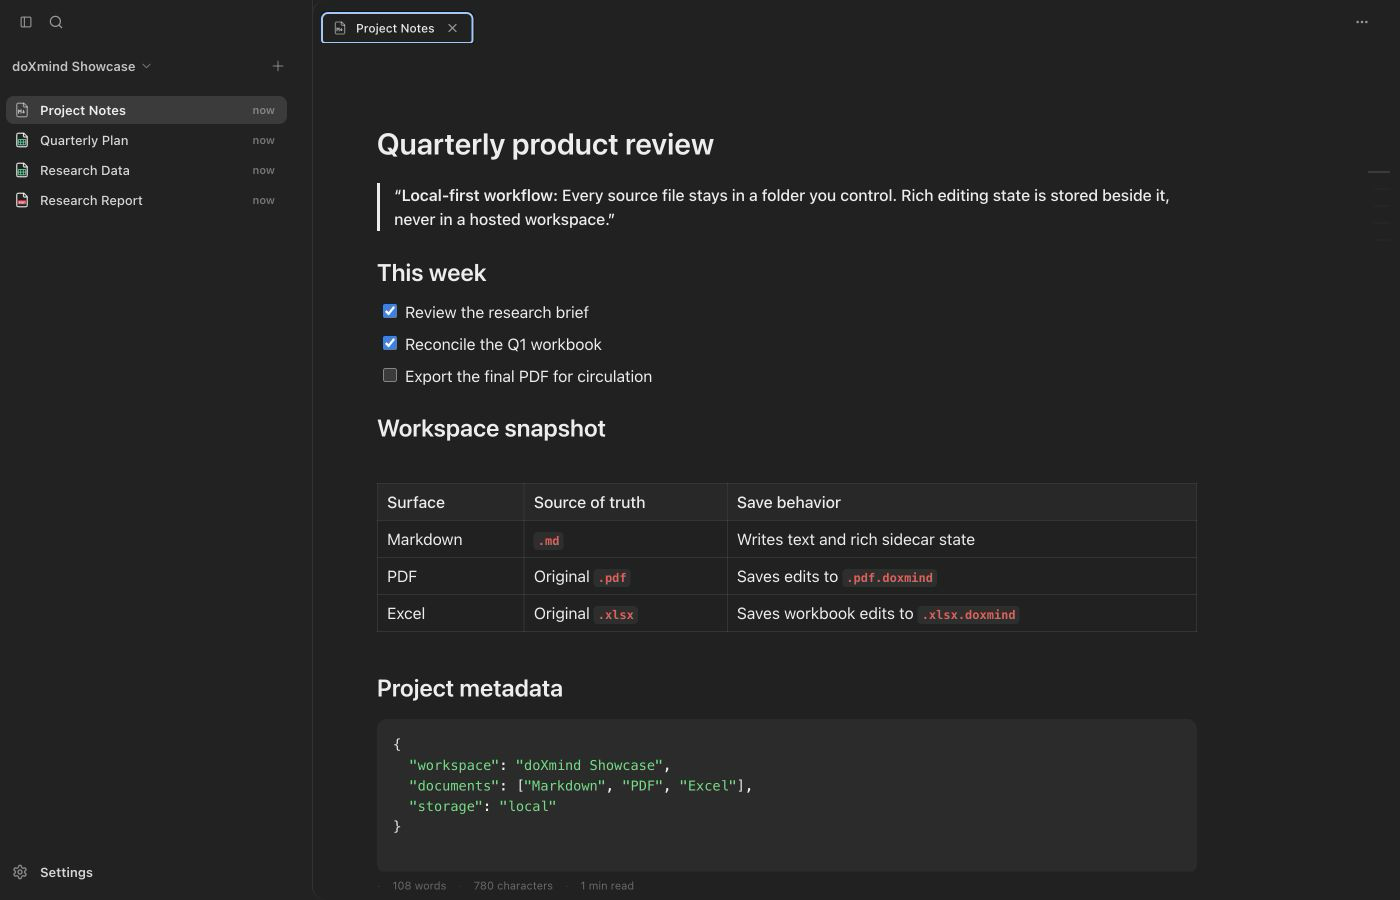
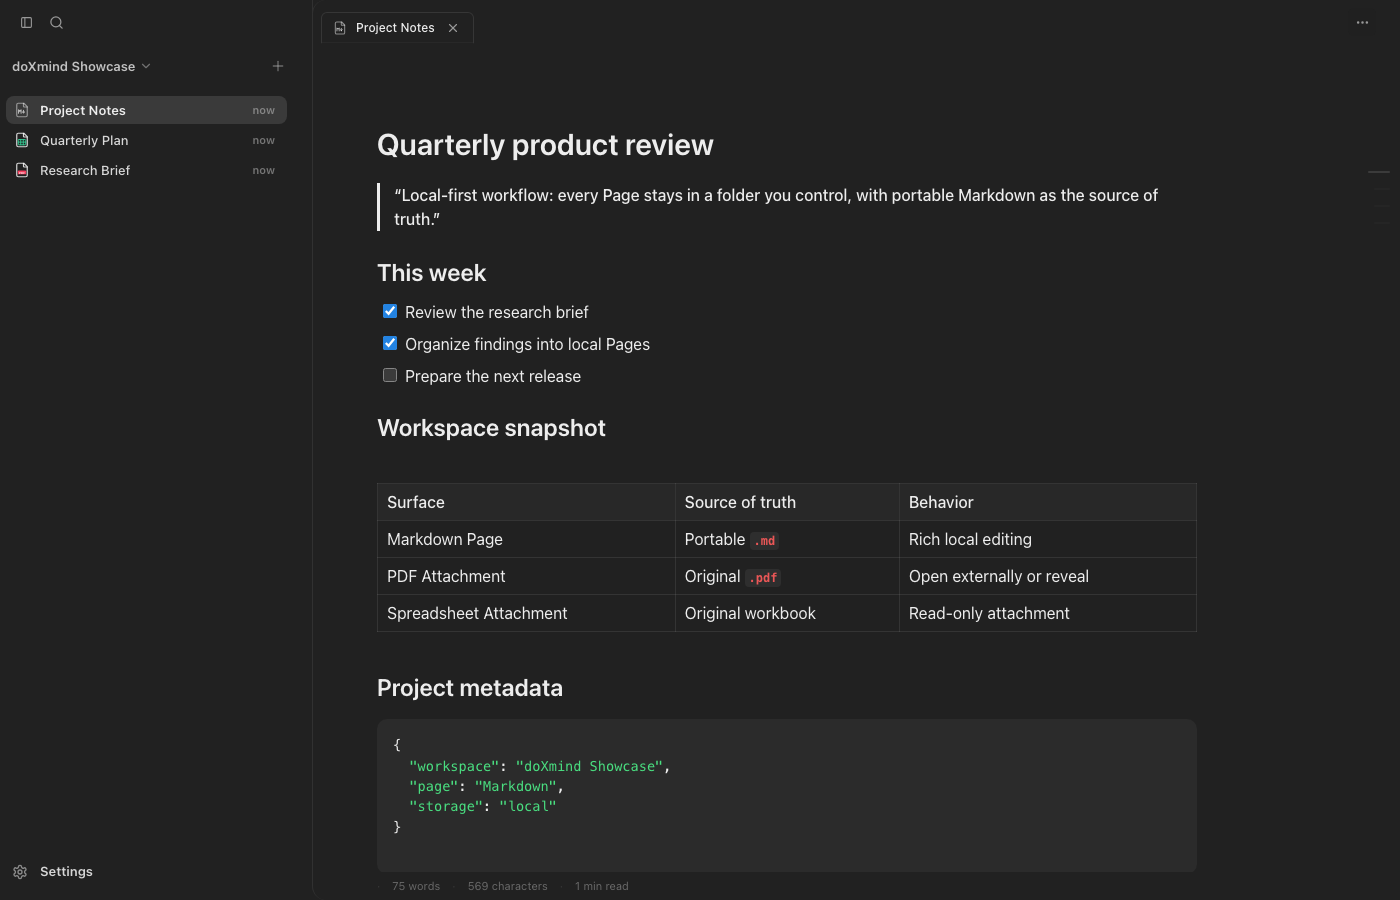
Align the website with the 1.8 Markdown workspace
Present Markdown Pages as the only editing surface, describe other formats as read-only Attachments, and replace retired PDF and spreadsheet imagery with current product screenshots. Keep the stable download URL while adding browser checks for the new boundary, structured data, and scroll-revealed content.

diff --git a/src/pages/Home.jsx b/src/pages/Home.jsx
@@ -8,7 +8,7 @@ const MAC_DOWNLOAD_URL =
 const RELEASES_URL = 'https://github.com/doXmind/releases/releases/latest'
 const GITHUB_URL = 'https://github.com/doXmind'
 const DOCS_URL = 'https://docs.doxmind.com'
-const LATEST_VERSION = '1.7.8'
+const LATEST_VERSION = '1.8.0'
 
 function Brand() {
   return (
@@ -38,19 +38,18 @@ function Reveal({ children, className = '', delay = 0, as = 'div', ...rest }) {
 }
 
 function ProductShot({ src, alt }) {
-  const retina = src.replace(/\.png$/, '@2x.png')
   return (
     <div className="frame">
-      <img src={src} srcSet={`${src} 1x, ${retina} 2x`} width="1400" height="900" alt={alt} loading="lazy" />
+      <img src={src} width="1400" height="900" alt={alt} loading="lazy" />
     </div>
   )
 }
 
 const LOCAL_POINTS = [
   { k: 'No account', v: 'Open and go', d: 'No sign-up, no login, no identity. Launch and start writing.' },
-  { k: 'No cloud sync', v: 'Nothing uploads', d: 'Your files never leave the machine. There is no server to leave to.' },
-  { k: 'No telemetry', v: 'Nothing watches', d: 'No analytics, no tracking, no phone-home. Fully offline.' },
-  { k: 'Source of truth', v: 'Your filesystem', d: 'Portable .md, .xlsx and .pdf on disk — yours to keep and move.' },
+  { k: 'No cloud sync', v: 'Nothing uploads', d: 'Your files never leave the machine. There is no remote sync service.' },
+  { k: 'No telemetry', v: 'Nothing watches', d: 'No analytics and no tracking. Your work stays private and available offline.' },
+  { k: 'Source of truth', v: 'Your filesystem', d: 'Portable Markdown Pages and ordinary attachments on disk — yours to keep and move.' },
 ]
 
 export default function Home() {
@@ -120,7 +119,7 @@ export default function Home() {
               animate={{ opacity: 1, y: 0 }}
               transition={{ duration: 0.7, ease: [0.22, 1, 0.36, 1], delay: 0.2 }}
             >
-              A fully local desktop IDE for Markdown, PDF, and Excel.
+              A fully local, Markdown-native knowledge workspace.
             </motion.p>
             <motion.div
               className="hero-cta"
@@ -148,7 +147,10 @@ export default function Home() {
             animate={{ opacity: 1, y: 0, scale: 1 }}
             transition={{ duration: 0.95, delay: 0.32, ease: [0.22, 1, 0.36, 1] }}
           >
-            <ProductShot src="/doxmind-editor.png" alt="A Markdown document open in the doXmind editor" />
+            <ProductShot
+              src="/doxmind-overview.png"
+              alt="The doXmind workspace showing a Markdown Page with spreadsheet and PDF Attachments"
+            />
           </motion.div>
         </section>
 
@@ -158,11 +160,11 @@ export default function Home() {
             <span className="eyebrow"><span className="dot" /> Local by design</span>
           </Reveal>
           <Reveal delay={0.05} as="h2">
-            One editor for the documents you work in every day.
+            One editing surface: the Markdown Page.
           </Reveal>
           <Reveal delay={0.1} as="p">
-            Markdown, PDF and Excel — each a first-class citizen, each still a portable
-            file in a folder you control.
+            Write Pages in a rich editor. Keep PDF, spreadsheet and HTML files as
+            read-only Attachments in the same folder you already control.
           </Reveal>
         </section>
 
@@ -170,65 +172,70 @@ export default function Home() {
         <section className="features" id="product" aria-label="What doXmind does">
           <div className="feature">
             <div className="feature-copy">
-              <Reveal><span className="eyebrow">01 · Markdown</span></Reveal>
-              <Reveal delay={0.05} as="h3">Markdown without lock-in.</Reveal>
+              <Reveal><span className="eyebrow">01 · Page</span></Reveal>
+              <Reveal delay={0.05} as="h3">Rich writing, portable source.</Reveal>
               <Reveal delay={0.1}>
                 <p>
                   Write in a rich editor while a portable <code style={{ fontFamily: 'var(--font-mono)', fontSize: '0.92em' }}>.md</code> file
-                  stays in your own folder. Math, Mermaid, tables, callouts and code — all in a focused desktop workflow.
+                  stays in your own folder. The Page remains useful in any Markdown tool, even without doXmind.
                 </p>
                 <ul className="feature-points">
                   <li><Check size={16} weight="bold" /> KaTeX math, Mermaid diagrams, tables, callouts, task lists and highlighted code</li>
                   <li><Check size={16} weight="bold" /> Slash commands, drag handles, and a Notion-style bubble menu</li>
-                  <li><Check size={16} weight="bold" /> Untouched blocks round-trip byte-for-byte; a hidden sidecar holds the rest</li>
+                  <li><Check size={16} weight="bold" /> A hidden sidecar improves fidelity without replacing the Markdown source</li>
                 </ul>
               </Reveal>
             </div>
             <Reveal delay={0.08} className="feature-visual">
-              <ProductShot src="/doxmind-editor.png" alt="A Markdown project edited in doXmind" />
+              <ProductShot src="/doxmind-editor.png" alt="A Markdown Page open in the doXmind rich editor" />
             </Reveal>
           </div>
 
           <div className="feature feature-reverse">
             <div className="feature-copy">
-              <Reveal><span className="eyebrow">02 · PDF</span></Reveal>
-              <Reveal delay={0.05} as="h3">PDFs stay original.</Reveal>
+              <Reveal><span className="eyebrow">02 · Your folder</span></Reveal>
+              <Reveal delay={0.05} as="h3">A knowledge base you can leave with.</Reveal>
               <Reveal delay={0.1}>
                 <p>
-                  Read, annotate and organize long documents without replacing the source PDF. doXmind keeps its editing
-                  state beside the file — not on a remote server.
+                  Open a real folder and create Pages directly beside the files you already manage. Ordinary Markdown
+                  links remain visible in the source instead of becoming relationships trapped in a cloud database.
                 </p>
                 <ul className="feature-points">
-                  <li><Check size={16} weight="bold" /> Block-based annotation and edit surface</li>
-                  <li><Check size={16} weight="bold" /> The original PDF is never overwritten</li>
-                  <li><Check size={16} weight="bold" /> Editor state lives in a same-name hidden sidecar</li>
+                  <li><Check size={16} weight="bold" /> Real folders and filenames stay authoritative</li>
+                  <li><Check size={16} weight="bold" /> Pages stay readable in Obsidian, VS Code, Git and other Markdown tools</li>
+                  <li><Check size={16} weight="bold" /> Portable links are the foundation for the knowledge layer ahead</li>
                 </ul>
               </Reveal>
             </div>
             <Reveal delay={0.08} className="feature-visual">
-              <ProductShot src="/doxmind-pdf.png" alt="A PDF open in the doXmind annotation workspace" />
+              <ProductShot
+                src="/doxmind-overview.png"
+                alt="A local folder in doXmind with one Markdown Page and two read-only Attachments"
+              />
             </Reveal>
           </div>
 
           <div className="feature">
             <div className="feature-copy">
-              <Reveal><span className="eyebrow">03 · Excel</span></Reveal>
-              <Reveal delay={0.05} as="h3">Real workbooks, locally.</Reveal>
+              <Reveal><span className="eyebrow">03 · Attachments</span></Reveal>
+              <Reveal delay={0.05} as="h3">Reference files without rewriting them.</Reveal>
               <Reveal delay={0.1}>
                 <p>
-                  Edit <code style={{ fontFamily: 'var(--font-mono)', fontSize: '0.92em' }}>.xlsx</code> and{' '}
-                  <code style={{ fontFamily: 'var(--font-mono)', fontSize: '0.92em' }}>.csv</code> with formulas, filters,
-                  autofill, formatting and structural tools. Your workbook stays the source of truth on disk.
+                  PDF, spreadsheet and HTML files can live in the workspace as read-only Attachments. Open them in the
+                  system app or reveal them in Finder without turning doXmind into a second office suite.
                 </p>
                 <ul className="feature-points">
-                  <li><Check size={16} weight="bold" /> A real formula engine, not a viewer</li>
-                  <li><Check size={16} weight="bold" /> Row and column operations, filters and autofill</li>
-                  <li><Check size={16} weight="bold" /> CSV opens in the same grid and exports back to .xlsx</li>
+                  <li><Check size={16} weight="bold" /> The original Attachment is never silently rewritten</li>
+                  <li><Check size={16} weight="bold" /> Open Externally and Reveal keep file ownership clear</li>
+                  <li><Check size={16} weight="bold" /> Existing PDF and Excel edits retain a documented recovery path</li>
                 </ul>
               </Reveal>
             </div>
             <Reveal delay={0.08} className="feature-visual">
-              <ProductShot src="/doxmind-excel.png" alt="An Excel workbook open in the doXmind spreadsheet editor" />
+              <ProductShot
+                src="/doxmind-editor.png"
+                alt="A doXmind Page documenting how PDF and spreadsheet files remain read-only Attachments"
+              />
             </Reveal>
           </div>
         </section>
@@ -244,7 +251,7 @@ export default function Home() {
             <Reveal delay={0.1}>
               <p className="local-lede">
                 doXmind has no account, no cloud sync, no telemetry, and no AI runtime. It is a desktop app and a localhost
-                helper — the files in your own folders are the whole product.
+                helper — the files in your own folders remain the source of truth.
               </p>
             </Reveal>
             <Reveal delay={0.14}>
@@ -267,7 +274,7 @@ export default function Home() {
             <div className="download-sky" aria-hidden="true" />
             <img className="download-icon" src="/doxmind-app-icon.png" alt="" width="56" height="56" />
             <h2>Keep your documents yours.</h2>
-            <p>Download doXmind for macOS and start editing in seconds — no account, no cloud, no catch.</p>
+            <p>Download doXmind for macOS and start writing local Markdown Pages — no account, no cloud, no catch.</p>
             <div className="download-cta">
               <a className="btn btn-lg btn-ink" href={MAC_DOWNLOAD_URL}>
                 <DownloadSimple size={18} weight="bold" /> Download for macOS
@@ -287,7 +294,7 @@ export default function Home() {
         <div className="footer-top">
           <div className="footer-brand">
             <a href="/" aria-label="doXmind home"><Brand /></a>
-            <p>A fully local desktop IDE for Markdown, PDF and Excel. Your filesystem is the source of truth.</p>
+            <p>A fully local, Markdown-native knowledge workspace. Your filesystem is the source of truth.</p>
           </div>
           <nav className="footer-links" aria-label="Footer">
             <div className="footer-col">

diff --git a/scripts/check-site.js b/scripts/check-site.js
@@ -15,13 +15,31 @@ async function openPage(path, viewport, { collectConsoleErrors = true } = {}) {
   return page
 }
 
+async function revealScrolledContent(page) {
+  await page.evaluate(async () => {
+    const pause = () => new Promise((resolve) => setTimeout(resolve, 90))
+    const originalScrollBehavior = document.documentElement.style.scrollBehavior
+    document.documentElement.style.scrollBehavior = 'auto'
+    const lastScrollTop = Math.max(0, document.documentElement.scrollHeight - window.innerHeight)
+    for (let scrollTop = 0; scrollTop < lastScrollTop; scrollTop += window.innerHeight * 0.7) {
+      window.scrollTo(0, scrollTop)
+      await pause()
+    }
+    window.scrollTo(0, lastScrollTop)
+    await new Promise((resolve) => setTimeout(resolve, 850))
+    window.scrollTo(0, 0)
+    await pause()
+    document.documentElement.style.scrollBehavior = originalScrollBehavior
+  })
+}
+
 try {
   const desktop = await openPage('/', { width: 1440, height: 1000 })
-  assert.match(await desktop.title(), /Local Desktop IDE/)
+  assert.match(await desktop.title(), /Fully Local Markdown Knowledge Workspace/)
   const heroHeading = await desktop.$eval('h1', (node) => node.textContent)
   assert.equal(heroHeading.trim(), 'doXmind')
   assert.equal(
-    await desktop.$eval('.hero-app-icon', (node) => node.getAttribute('src')),
+    await desktop.$eval('.hero-icon', (node) => node.getAttribute('src')),
     '/doxmind-app-icon.png',
   )
   assert.equal(
@@ -29,30 +47,80 @@ try {
     'https://github.com/doXmind/releases/releases/latest/download/doXmind-mac-arm64.dmg',
   )
   assert.equal(
-    await desktop.$eval('.header-download', (node) => node.href),
+    await desktop.$eval('.site-header [data-testid="mac-download"]', (node) => node.href),
     'https://github.com/doXmind/releases/releases/latest/download/doXmind-mac-arm64.dmg',
   )
   assert.deepEqual(
-    await desktop.$$eval('.story-row .product-shot img', (nodes) => nodes.map((node) => node.getAttribute('src'))),
-    ['/doxmind-editor.png', '/doxmind-pdf.png', '/doxmind-excel.png'],
+    await desktop.$$eval('.frame img', (nodes) => nodes.map((node) => node.getAttribute('src'))),
+    [
+      '/doxmind-overview.png',
+      '/doxmind-editor.png',
+      '/doxmind-overview.png',
+      '/doxmind-editor.png',
+    ],
   )
-  assert.match(
-    await desktop.$eval('.hero-product-shot img', (node) => node.getAttribute('srcset')),
-    /doxmind-editor@2x\.png 2x/,
+  assert.deepEqual(
+    await desktop.$$eval('.frame img', (nodes) => nodes.map((node) => node.getAttribute('alt'))),
+    [
+      'The doXmind workspace showing a Markdown Page with spreadsheet and PDF Attachments',
+      'A Markdown Page open in the doXmind rich editor',
+      'A local folder in doXmind with one Markdown Page and two read-only Attachments',
+      'A doXmind Page documenting how PDF and spreadsheet files remain read-only Attachments',
+    ],
   )
-  assert.equal((await desktop.$$('.desktop-preview')).length, 0)
+  assert.equal(
+    await desktop.$$eval('.frame img', (nodes) => nodes.every((node) => node.complete && node.naturalWidth > 0)),
+    true,
+  )
 
   const bodyText = await desktop.$eval('body', (node) => node.innerText)
+  for (const requiredSurface of [
+    'A fully local, Markdown-native knowledge workspace.',
+    'One editing surface: the Markdown Page.',
+    'read-only Attachments',
+    'v1.8.0',
+  ]) {
+    assert.equal(bodyText.includes(requiredSurface), true, `${requiredSurface} should appear`)
+  }
   for (const removedSurface of ['Log in', 'Sign up', 'Launch App', 'Try for free', 'Pricing']) {
     assert.equal(bodyText.includes(removedSurface), false, `${removedSurface} should not appear`)
   }
+  for (const retiredClaim of [
+    'desktop IDE for Markdown, PDF, and Excel',
+    'Read, annotate and organize long documents',
+    'Block-based annotation and edit surface',
+    'A real formula engine, not a viewer',
+    'spreadsheet editor',
+  ]) {
+    assert.equal(bodyText.includes(retiredClaim), false, `${retiredClaim} should not appear`)
+  }
+
+  const softwareSchema = await desktop.$$eval('script[type="application/ld+json"]', (nodes) =>
+    nodes.map((node) => JSON.parse(node.textContent)).find((schema) => schema['@type'] === 'SoftwareApplication'),
+  )
+  assert.ok(softwareSchema)
+  assert.ok(softwareSchema.featureList.includes('Read-only PDF, spreadsheet, and HTML Attachments'))
+  assert.equal(softwareSchema.featureList.includes('PDF annotation and document tools'), false)
+  assert.equal(softwareSchema.featureList.includes('Excel workbook editing'), false)
+
+  await revealScrolledContent(desktop)
+  const hiddenRevealSections = await desktop.$$eval('.reveal', (nodes) =>
+    nodes
+      .map((node) => ({
+        opacity: getComputedStyle(node).opacity,
+        text: node.textContent.trim().replace(/\s+/g, ' ').slice(0, 80),
+      }))
+      .filter(({ opacity }) => !(Number.parseFloat(opacity) > 0.99)),
+  )
+  assert.deepEqual(hiddenRevealSections, [], 'all reveal sections should become visible while scrolling')
   await desktop.screenshot({ path: '/tmp/doxmind-website-desktop.png', fullPage: true })
   await desktop.close()
 
   const mobile = await openPage('/', { width: 390, height: 844, deviceScaleFactor: 1 })
   const overflow = await mobile.evaluate(() => document.documentElement.scrollWidth - document.documentElement.clientWidth)
   assert.ok(overflow <= 1, `mobile page overflows horizontally by ${overflow}px`)
-  assert.equal(await mobile.$eval('.desktop-nav', (node) => getComputedStyle(node).display), 'none')
+  assert.equal(await mobile.$eval('.header-ghost', (node) => getComputedStyle(node).display), 'none')
+  await revealScrolledContent(mobile)
   await mobile.screenshot({ path: '/tmp/doxmind-website-mobile.png', fullPage: true })
   await mobile.close()
 
@@ -80,7 +148,7 @@ try {
   assert.equal((await legacy.$$('input')).length, 0)
   await legacy.close()
 
-  console.log('Site checks passed: product imagery, desktop, mobile, /download, and retired /login surface')
+  console.log('Site checks passed: 1.8 product boundary, imagery, desktop, mobile, /download, and retired /login surface')
 } finally {
   await browser.close()
 }

diff --git a/src/components/seo/SEO.jsx b/src/components/seo/SEO.jsx
@@ -5,9 +5,9 @@ const DOWNLOAD_URL = `${SITE_URL}/download`
 const IMAGE_URL = `${SITE_URL}/og-image.png`
 const APP_ICON_URL = `${SITE_URL}/doxmind-app-icon.png`
 
-const title = 'doXmind — Local Desktop IDE for Markdown, PDF & Excel'
+const title = 'doXmind — Fully Local Markdown Knowledge Workspace'
 const description =
-  'A fully local desktop IDE for Markdown, PDF, and Excel. No account, cloud sync, telemetry, or AI runtime.'
+  'A fully local, Markdown-native knowledge workspace with portable Pages and read-only Attachments. No account, cloud sync, telemetry, or AI runtime.'
 
 const structuredData = [
   {
@@ -27,9 +27,10 @@ const structuredData = [
     description,
     downloadUrl: DOWNLOAD_URL,
     featureList: [
-      'Rich Markdown editing with portable files',
-      'PDF annotation and document tools',
-      'Excel workbook editing',
+      'Rich Markdown Pages backed by portable files',
+      'Real local folders and filesystem ownership',
+      'Read-only PDF, spreadsheet, and HTML Attachments',
+      'Portable Markdown links',
       'Fully local filesystem storage',
       'Offline desktop operation',
     ],
@@ -44,7 +45,7 @@ export default function SEO({ path = '/' }) {
       <title>{title}</title>
       <meta name="title" content={title} />
       <meta name="description" content={description} />
-      <meta name="keywords" content="local document editor, desktop markdown editor, PDF editor, Excel editor, offline document IDE" />
+      <meta name="keywords" content="local knowledge workspace, desktop markdown editor, portable markdown, local files, offline notes" />
       <link rel="canonical" href={canonicalUrl} />
 
       <meta property="og:type" content="website" />
@@ -60,11 +61,9 @@ export default function SEO({ path = '/' }) {
       <meta name="twitter:image" content={IMAGE_URL} />
 
       {structuredData.map((schema) => (
-        <script
-          key={schema['@type']}
-          type="application/ld+json"
-          dangerouslySetInnerHTML={{ __html: JSON.stringify(schema) }}
-        />
+        <script key={schema['@type']} type="application/ld+json">
+          {JSON.stringify(schema)}
+        </script>
       ))}
     </Helmet>
   )

diff --git a/index.html b/index.html
@@ -4,7 +4,7 @@
     <meta charset="UTF-8" />
     <meta name="viewport" content="width=device-width, initial-scale=1.0" />
 
-    <title>doXmind — Local Desktop IDE for Markdown, PDF &amp; Excel</title>
+    <title>doXmind — Fully Local Markdown Knowledge Workspace</title>
     <meta name="author" content="doXmind" />
     <meta name="robots" content="index, follow" />
 
